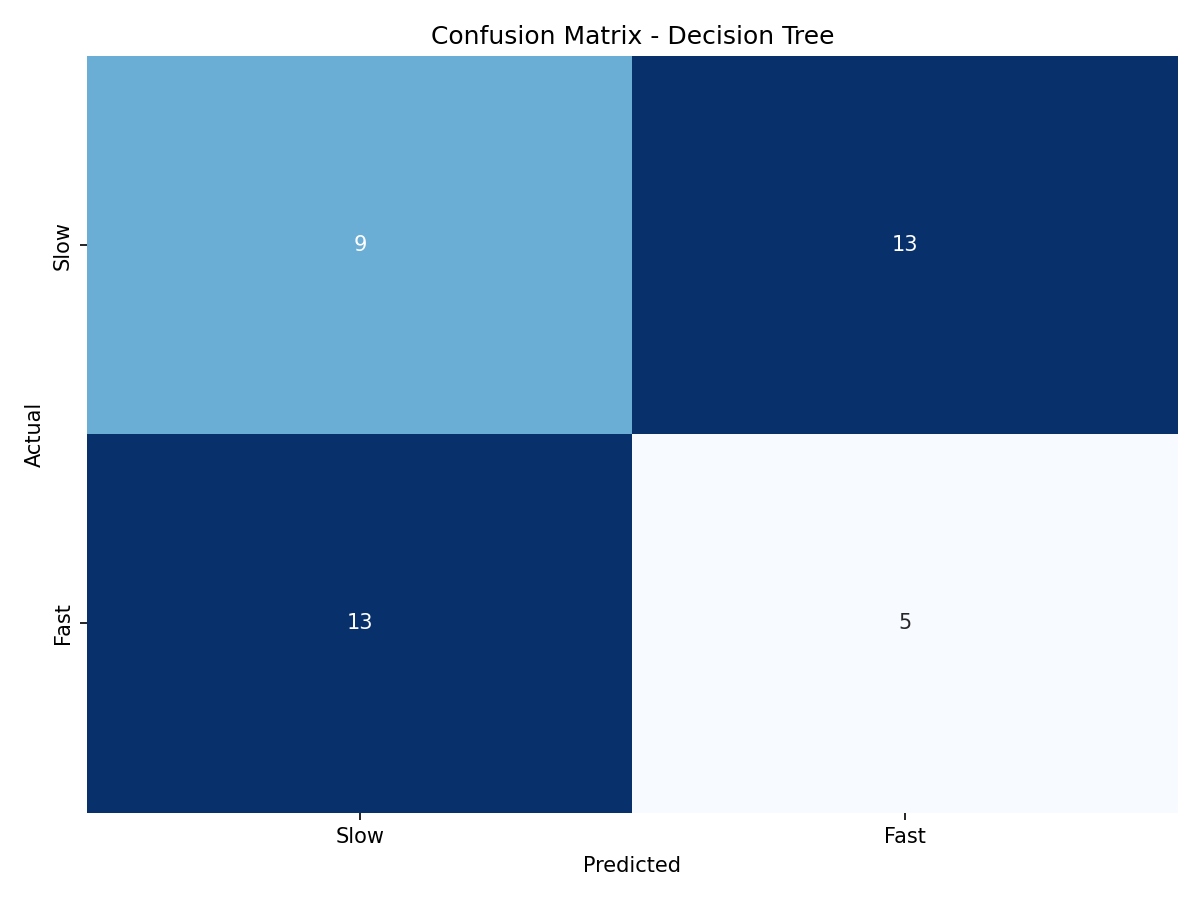
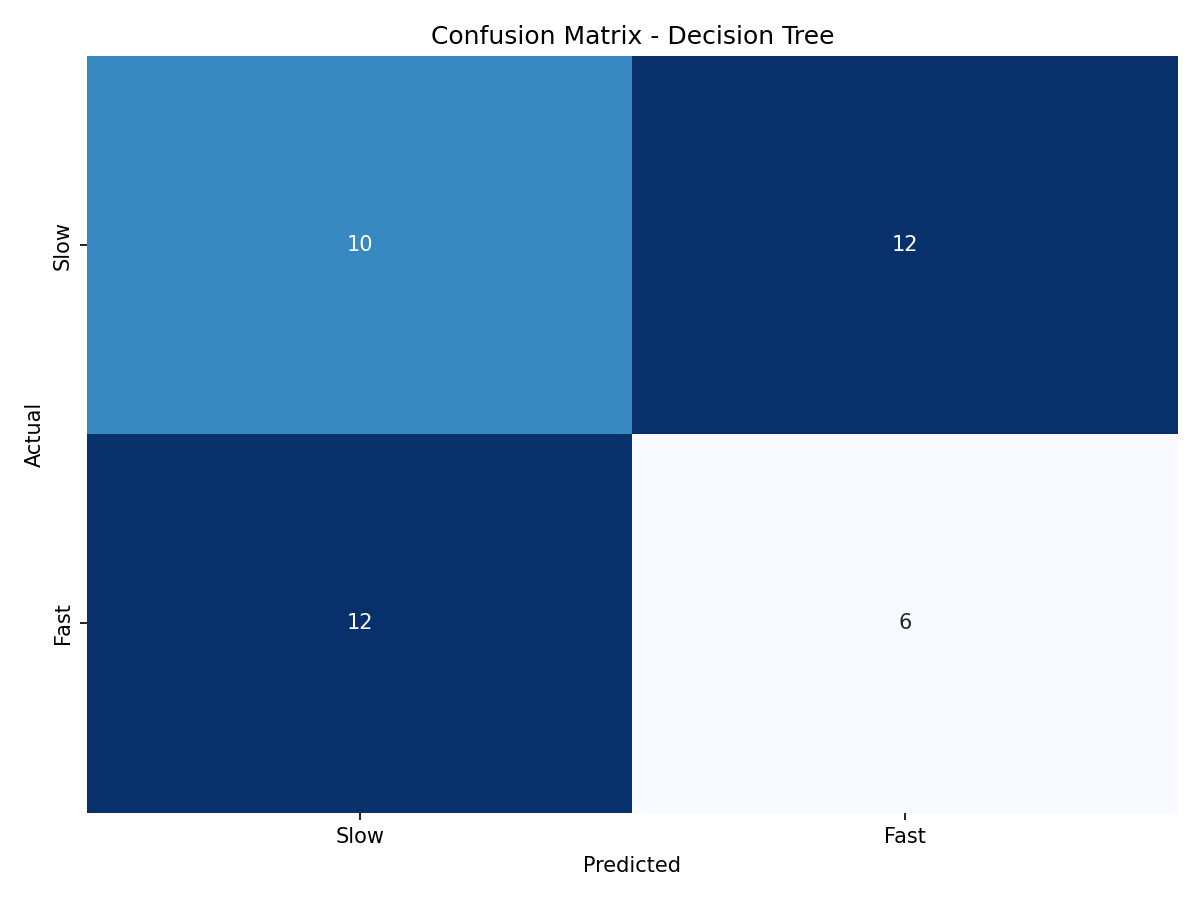
chore: Update Decision Tree random state and regenerate associated plots.

Changed region(s): [[0.0617, 0.0622, 0.5242, 0.4978]]

diff --git a/food_prediction.py b/food_prediction.py
@@ -245,11 +245,11 @@ def train_decision_tree(X_train, X_test, y_train, y_test):
         'min_samples_split': [2, 5, 10],
         'min_samples_leaf': [1, 2, 4]
     }
-    grid_search = GridSearchCV(DecisionTreeClassifier(random_state=42), param_grid, cv=5, scoring='accuracy')
+    grid_search = GridSearchCV(DecisionTreeClassifier(random_state=50), param_grid, cv=5, scoring='accuracy')
     grid_search.fit(X_train, y_train)
     print(f"Best parameters: {grid_search.best_params_}")
     
-    model = DecisionTreeClassifier(random_state=42, **grid_search.best_params_)
+    model = DecisionTreeClassifier(random_state=50, **grid_search.best_params_)
     cv_scores = cross_val_score(model, X_train, y_train, cv=5)
     print(f"Cross-validation Accuracy: {cv_scores.mean():.2f} (+/- {cv_scores.std():.2f})")
     
